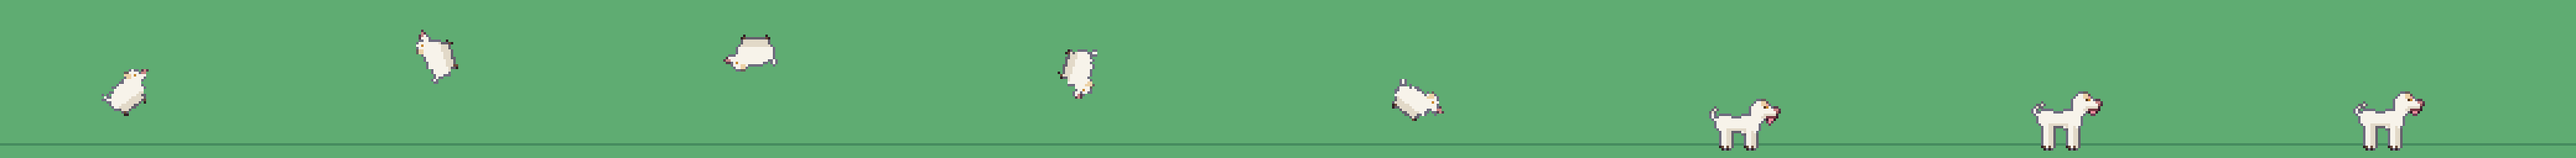
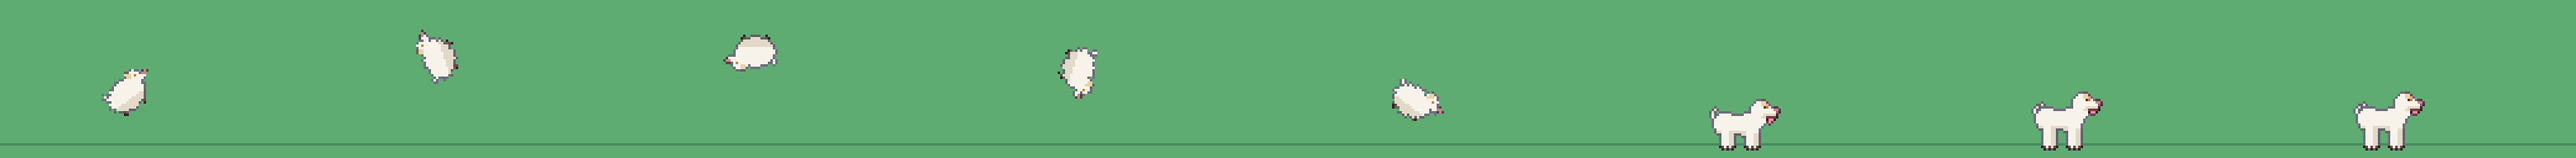
Casper: a bit more weight (body, neck, legs) [skip ci]
Claude-Session: https://claude.ai/code/session_01DcRsQ77FYXtVXyNejf31QG

diff --git a/tools/casper.py b/tools/casper.py
@@ -43,18 +43,18 @@ def side(f=0, mode='walk', blink=False):
     b = B(38, 30, 2, 3); X, R = b.X, b.R
     G = 25
     if mode == 'tuck':           # balled up mid-flip: legs tucked under, head in
-        ell(X, 16, 14, 7, 5, lambda x, y: K['wS'] if y > 15 else K['w'])
+        ell(X, 16, 14, 7.6, 5.8, lambda x, y: K['wS'] if y > 15 else K['w'])
         R(11, 17, 3, 2, K['wS']); R(18, 17, 3, 2, K['wS']); X(11, 19, K['nail']); X(20, 19, K['nail'])
         ell(X, 22, 10, 3.4, 3, K['w']); R(23, 10, 4, 2, K['w']); X(27, 10, K['nose']); X(26, 10, K['nose'])
         R(20, 7, 2, 2, K['ear']); X(23, 9, K['eye'])
         X(9, 11, K['w']); X(8, 10, K['w']); X(8, 9, K['w'])
         b.outline(.45); return b.im
     if mode == 'sit':
-        ell(X, 11, 19, 5, 4.5, lambda x, y: K['wS'] if y > 20 else K['w'])        # haunch
+        ell(X, 11, 19, 5.8, 5.2, lambda x, y: K['wS'] if y > 20 else K['w'])        # haunch
         R(7, G - 2, 6, 2, K['wS']); X(7, G - 1, K['nail']); X(9, G - 1, K['nail'])
         R(13, 13, 6, 8, K['w'])
-        ell(X, 17, 13, 4, 4.5, K['w'])                                            # upright chest
-        R(16, 16, 2, G - 16, K['wS']); R(18, 16, 2, G - 16, K['w']); X(16, G - 1, K['nail']); X(18, G - 1, K['nail'])
+        ell(X, 17, 13, 4.8, 5.2, K['w'])                                            # upright chest
+        R(15, 16, 3, G - 16, K['wS']); R(18, 16, 3, G - 16, K['w']); X(16, G - 1, K['nail']); X(18, G - 1, K['nail'])
         for i in range(4): R(18 + i, 9 - i, 3, 4, K['w'])                         # neck
         wag = f % 2
         for i, (dx, dy) in enumerate(((0, 0), (-1, 0), (-2, -1), (-3, -1), (-4, -2 + wag), (-5, -3 + wag))): X(6 + dx, 21 + dy, K['w'] if i < 4 else K['wS'])
@@ -66,12 +66,12 @@ def side(f=0, mode='walk', blink=False):
     sw = [2, 1, -2, -1][f] if mode == 'walk' else 0
     def leg(x, dx, col, lift=0):
         top = 13 + by
-        R(x + dx, top, 2, G - top - lift, col); X(x + dx, G - 1 - lift, K['nail']); X(x + dx + 1, G - 1 - lift, col)
+        R(x + dx, top, 3, G - top - lift, col); X(x + dx, G - 1 - lift, K['nail']); X(x + dx + 2, G - 1 - lift, K['nail'])
     # far legs (shaded), diagonal pairs swing together
     leg(11, -sw, K['wS'], lift=1 if sw < 0 else 0); leg(21, sw, K['wS'], lift=1 if sw > 0 else 0)
     # lean body: deep chest, tucked waist, narrow hips
-    ell(X, 20, 11.5 + by, 4.2, 3.8, K['w']); ell(X, 10.5, 11 + by, 4, 3.2, K['w'])
-    R(11, 9 + by, 9, 4, K['w']); R(11, 13 + by, 9, 1, K['wS']); R(18, 14 + by, 4, 1, K['wS'])
+    ell(X, 20, 11.5 + by, 4.8, 4.6, K['w']); ell(X, 10.5, 11 + by, 4.8, 4.2, K['w'])      # a bit more weight
+    R(11, 8 + by, 9, 6, K['w']); R(11, 14 + by, 9, 1, K['wS']); R(17, 15 + by, 5, 1, K['wS']); R(7, 14 + by, 6, 1, K['wS'])
     # near legs
     leg(9, sw, K['w'], lift=1 if sw > 0 else 0); leg(19, -sw, K['w'], lift=1 if sw < 0 else 0)
     # thin tail curving up
@@ -79,7 +79,7 @@ def side(f=0, mode='walk', blink=False):
     for i, (dx, dy) in enumerate(((0, 0), (-1, -1), (-2, -2), (-2, -3), (-2 + wag, -4), (-1 + wag * 2, -5))): X(7 + dx, 10 + by + dy, K['w'] if i < 4 else K['wS'])
     # neck angled up-forward, head out front
     lift = -1 if mode == 'bark' else 0
-    for i in range(4): R(20 + i, 9 - i + by + lift, 3, 4, K['w'])
+    for i in range(4): R(20 + i, 9 - i + by + lift, 4, 5, K['w'])
     head(X, R, 0, by + lift, mode, f, blink)
     b.outline(.45)
     return b.im
@@ -90,7 +90,7 @@ def front(f=0, blink=False):
     G = 25; bob = [0, -1, 0, -1][f]; sw = [1, 0, -1, 0][f]
     # legs (back pair behind, front pair)
     R(6, 18, 2, G - 18 - (sw < 0), K['wS']); R(14, 18, 2, G - 18 - (sw > 0), K['wS'])
-    ell(X, 11, 16 + bob, 5.5, 5, lambda x, y: K['wS'] if y > 17 + bob else K['w'])
+    ell(X, 11, 16 + bob, 6.6, 5.8, lambda x, y: K['wS'] if y > 17 + bob else K['w'])
     R(7, 17 + bob, 3, G - 17 - bob - (sw > 0), K['w']); R(12, 17 + bob, 3, G - 17 - bob - (sw < 0), K['w'])
     for x0, l in ((7, sw > 0), (12, sw < 0)): X(x0, G - 1 - l, K['nail']); X(x0 + 2, G - 1 - l, K['nail'])
     # head: long face, ears flopping out at the sides with cream tips
@@ -112,7 +112,7 @@ def back(f=0):
     b = B(26, 30, 2, 2); X, R = b.X, b.R
     G = 25; bob = [0, -1, 0, -1][f]; sw = [1, 0, -1, 0][f]
     R(7, 17 + bob, 2, G - 17 - bob - (sw > 0), K['wS']); R(13, 17 + bob, 2, G - 17 - bob - (sw < 0), K['wS'])
-    ell(X, 11, 14 + bob, 5.5, 5.5, lambda x, y: K['wS'] if y > 16 + bob else K['w'])
+    ell(X, 11, 14 + bob, 6.6, 6.2, lambda x, y: K['wS'] if y > 16 + bob else K['w'])
     ell(X, 11, 6 + bob, 4.5, 4, K['w'])
     for ex, d in ((5, -1), (16, 1)): R(ex, 3 + bob, 2, 3, K['w']); R(ex + d, 4 + bob, 2, 2, K['ear'])
     R(6, 19 + bob, 3, G - 19 - bob - (sw < 0), K['w']); R(13, 19 + bob, 3, G - 19 - bob - (sw > 0), K['w'])

diff --git a/assets/characters/casper/README.md b/assets/characters/casper/README.md
@@ -2,7 +2,7 @@
 
 The user's white Aspin (Filipino street dog). Generated by `tools/casper.py`.
 
-- **Look:** lean, sturdy build with a deep chest and a tucked waist. Short white coat (`#f7f3ea`, shade `#e2d9c8`), a wedge-shaped head with a long snout, semi-floppy ears with cream-tan tips (`#ecd1a6`).
+- **Look:** sturdy build with a bit of weight (thicker body, neck and legs, per the user) with a deep chest and a tucked waist. Short white coat (`#f7f3ea`, shade `#e2d9c8`), a wedge-shaped head with a long snout, semi-floppy ears with cream-tan tips (`#ecd1a6`).
 - **Face:** amber eyes (`#c98a34`) with pink rims, a pink nose (`#c98686`), a happy panting mouth with a pink tongue, and brown toenails.
 - **Personality:** he **barks when you interact with him** ("!" pop, then "Arf! Arf!") and does a **backflip**: crouch, launch, curl into a ball and spin backwards in an arc, land, then a happy bark.
 - **`casper_sheet.png` layout** (38×30 cells):
